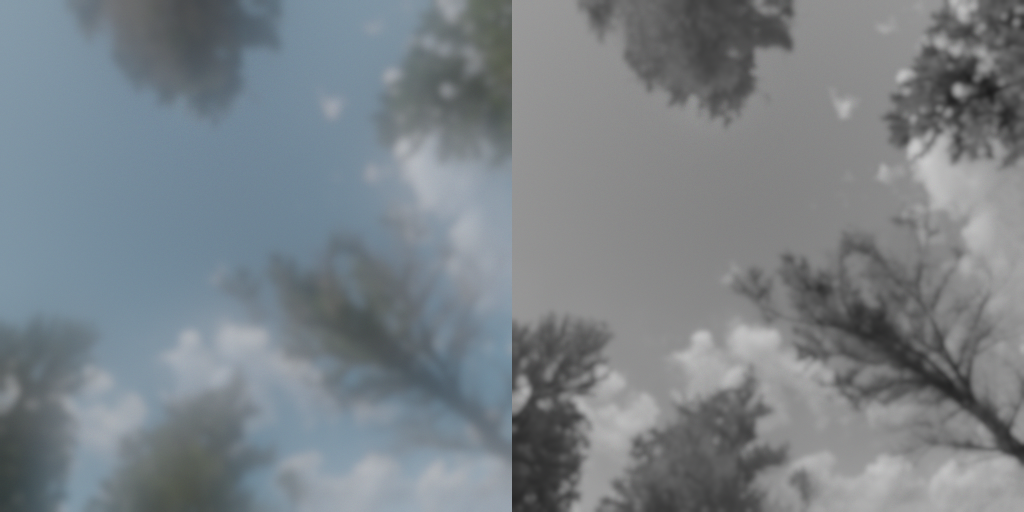
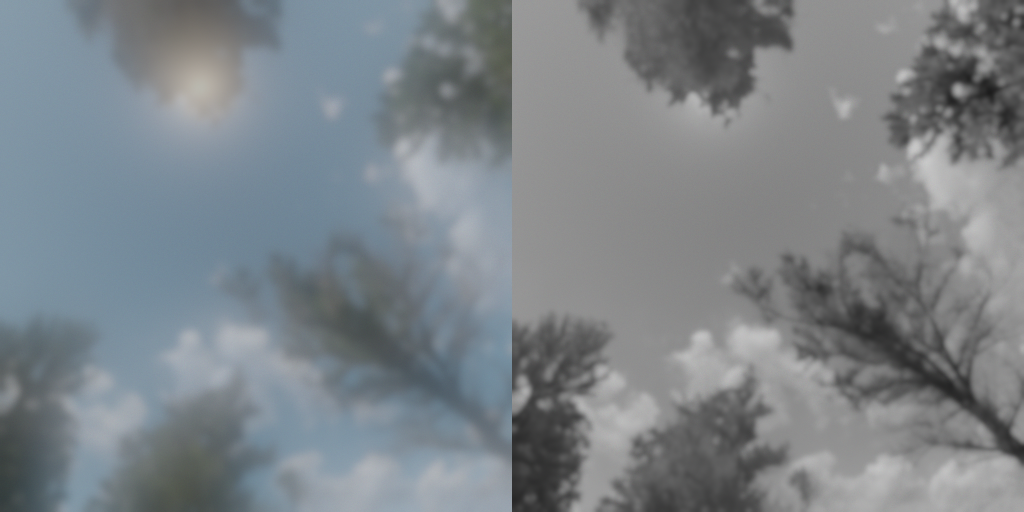
Lab: climb overexpose round 1
Claude-Session: https://claude.ai/code/session_01RqENhngNCzDFmJWDZueXGV

Changed region(s): [[0.125, 0.0, 0.25, 0.3125], [0.6562, 0.1875, 0.75, 0.25]]

diff --git a/src/app/lab/overexpose/overexposeEngine.js b/src/app/lab/overexpose/overexposeEngine.js
@@ -61,15 +61,26 @@ export const FILM = {
   // negative by skyHold of every stop of overexposure (about -0.9 EV at +1.67),
   // keyed on the bake's cloud mask (scene.webp's alpha, relight.py), so a
   // cloud's blue-lit underside is not mistaken for sky and a crown's edge is
-  // held with the sky behind it, never left as a pale outline. The dark
-  // needles take skyHoldNeedle of it. The scan's extra blue depth eases off on the held sky
+  // held with the sky behind it, never left as a pale outline. The same key
+  // spares the hidden sun's glow (sunburst.py), falling off over ~9 deg, so it
+  // is the glow that carries the overexposure: it climbs the shoulder, spreads
+  // and swallows the crown's edge while the sky around it stays held.
+  // The scan's extra blue depth eases off on the held sky
   // (to skyHoldDepth by skyHoldFull), or it would pour the held light straight
   // back into the blue channel and pin it at the cap again. So the sky's
   // brightest channel stays near 200-215, still deepening towards the zenith,
   // while the clouds keep climbing the shoulder above it. 0 EV is untouched.
   skyHold: 0.55,
   skyHoldDepth: 1.1,
-  skyHoldNeedle: 0.35, // share of the hold the dark needles take, so the shadows still open up
+  // The dark needles take skyHoldNeedle of it, so the shadows still open up. The
+  // hand-over from needle to sky is spread over skyHoldY (log2 scene luminance,
+  // ~5.7 stops): squeezed into the 1.7 stops between 0.03 and 0.1 it held a
+  // needle's lit side back almost as far as its shadow sat above it, so at +3
+  // the canopy's midtones collapsed onto one level and posterized into flat
+  // grey-green and lilac blobs. Spread out, each stop of needle still prints
+  // at least 0.7 stop apart at +3.
+  skyHoldNeedle: 0.3,
+  skyHoldY: [-9.0, -3.3],
   skyHoldFull: 1.67,
 
   hiWarm: 0.025,
@@ -104,7 +115,7 @@ uniform vec3 uGamma; uniform vec3 uShoulder; uniform float uToe; uniform float u
 uniform vec3 uGref;         // negative density of the printer-light grey
 uniform vec3 uPk; uniform vec3 uPx0; uniform vec3 uDmin; uniform vec3 uDmax;
 uniform float uSat; uniform float uBlueSat; uniform vec3 uBlueHue; uniform float uHiDesat; uniform float uHiWarm;
-uniform vec2 uSkyQ; uniform float uHold; uniform float uHoldNeedle; uniform float uHoldDepth; uniform float uSkyHiKeep; uniform float uSkyHiHue; uniform float uSkyCap;
+uniform vec2 uSkyQ; uniform float uHold; uniform float uHoldNeedle; uniform vec2 uHoldY; uniform float uHoldDepth; uniform float uSkyHiKeep; uniform float uSkyHiHue; uniform float uSkyCap;
 uniform float uBloom; uniform float uHal; uniform vec3 uHalColor;
 uniform float uGrain; uniform float uSeed; uniform float uGrainPx;
 out vec4 o;
@@ -143,7 +154,7 @@ void main(){
   // The printer holds all but the cloud back (after the optics, so the hold does not
   // read as a dark gap for the halation to fill).
   float open = clamp((sc.a * 255.0 - 3.0) / 252.0, 0.0, 1.0); // 1 - the bake's cloud share
-  open *= mix(uHoldNeedle, 1.0, smoothstep(0.03, 0.1, Ys));
+  open *= mix(uHoldNeedle, 1.0, smoothstep(uHoldY.x, uHoldY.y, log2(max(Ys, 1e-6))));
   L *= exp2(-uHold * open);
 
   // Negative: each layer on its own H&D curve.
@@ -457,6 +468,7 @@ export async function createOverexpose(host, { embedded = false } = {}) {
     gl.uniform1f(u.uSkyCap, F.skyCap);
     gl.uniform1f(u.uHold, F.skyHold * Math.max(e, 0));
     gl.uniform1f(u.uHoldNeedle, F.skyHoldNeedle);
+    gl.uniform2fv(u.uHoldY, F.skyHoldY);
     gl.uniform1f(u.uHoldDepth, F.blueDepth + (F.skyHoldDepth - F.blueDepth) * clamp(e / F.skyHoldFull, 0, 1));
     gl.uniform1f(u.uBloom, F.bloom);
     gl.uniform1f(u.uHal, F.halation);

diff --git a/tools/depth/bakes/overexpose/sunburst.py b/tools/depth/bakes/overexpose/sunburst.py
@@ -1,0 +1,155 @@
+# Light the hidden sun.
+#
+# After deepen.py and relight.py the sun behind the top-centre crown had gone
+# out. resun.py's warm transmitted rim was there, but deepen.py's dematte() unmixed
+# it as old pale sky and took it back off the needles, and the circumsolar glow it
+# left (GLOW_A 1.6 over 4 deg) is barely half a stop on the cobalt. So the crown
+# printed as one more dark tree on an evenly lit sky: no light event, and no warm
+# accent anywhere in the frame.
+#
+# Here, on the shipped bake, the sun is lit again about 2-3 stops brighter than
+# resun.py left it, on three things only, with the photograph's own texture riding
+# along as a ratio:
+#   1. the tight circumsolar radiance, on each pixel's open-sky share: a near-white
+#      cyan aureole (the sky's own colour halfway to white) that falls off over a
+#      few degrees, AUR_A x the local sky at the sun and AUR_B x over ~AUR_W2 deg.
+#      Through the crown's own gaps within a couple of degrees of the sun it reaches
+#      the sun's disc: pin-points at the top of the encoding;
+#   2. a thin (RIM_PX) warm-white transmitted rim on the needles at the crown's
+#      open-sky edge, in the sun's forward lobe: backlit needles out-shine the sky
+#      beyond them by several stops. Mixed edge pixels (single needles against the
+#      sky) take it in proportion to their needle share, so the silhouette's
+#      filaments glow and its dense interior stays dark;
+#   3. the optics: diffusion and halation are rebaked from the change itself (both
+#      are linear in radiance), so the Pro-Mist bloom around the crown is cyan-white
+#      from the aureole and the halation ring on the dark needles inside the rim is
+#      warm.
+# The glow is also keyed into scene.webp's alpha (as cloud is, relight.py), with a
+# smooth falloff around the sun, so the printer's sky hold leaves it alone: as the
+# exposure rises the held sky stays cobalt while the glow climbs the shoulder,
+# spreads and swallows the crown's edge.
+#
+# Pipeline: runs last, on the relit bake (pass copies, never the outputs):
+#             python3 sunburst.py <scene.webp> <optics.png> [preview_dir]
+# With preview_dir it writes the new radiance there (npy) and leaves public/ alone.
+import sys, os; sys.path.insert(0, os.path.dirname(os.path.abspath(__file__)))
+import numpy as np
+from PIL import Image
+from scipy import ndimage as ndi
+import bake_wormseye as bw
+import deepen
+
+LUMA = np.array([0.2126, 0.7152, 0.0722])
+LN = 0.035                       # the needles' own luminance (resun.py)
+AUR_A, AUR_W1 = 7.0, 1.6         # tight aureole: x local sky at the sun, e-fold in deg
+AUR_B, AUR_W2 = 2.2, 7.0         # its broader skirt
+AUR_WHITE = 0.55                 # share of the way from the sky's colour to white
+DISC_DEG, DISC_L = 0.45, 5.0      # gaps this close to the sun see its disc (luminance, near the encoding's top)
+RIM_K, RIM_W, RIM_PX = 40.0, 3.5, 1.5   # rim: x local sky at the lobe's peak; lobe e-fold in deg; depth in px
+RIM_COL = np.array([1.3, 1.0, 0.62])     # sunlight through needles: warm white
+SRC_D2, SRC_W = 0.5, 4.5        # diffusion only: the disc's own light, as luminance 2 deg out, and its falloff (deg)
+SRC_COL = np.array([1.3, 1.0, 0.68])     # warm white: sunlight that came through the needles
+KEY_A, KEY_DEG = 0.85, 9.0       # alpha key: share of the sky hold the glow is spared, and its falloff (deg)
+
+def smooth(a, lo, hi):
+    t = np.clip((a - lo) / (hi - lo), 0, 1)
+    return t * t * (3 - 2 * t)
+
+def mblur(a, m, s):
+    return ndi.gaussian_filter(a * m, s) / np.maximum(ndi.gaussian_filter(m, s), 1e-6)
+
+def sunburst(pix):
+    _, g = deepen.geometry()
+    Y = pix @ LUMA
+    q = np.log2(np.maximum(pix[..., 2], 1e-6) / np.maximum(pix[..., 0], 1e-6))
+    near_sun = g < 40
+    # the sky behind each pixel: confident open blue sky, blurred into the crown
+    conf = ((q > 1.0) & (Y > 0.08)).astype(np.float64)
+    S = np.stack([mblur(pix[..., c], conf, 10.0) for c in range(3)], -1)
+    far = np.stack([mblur(pix[..., c], conf, 60.0) for c in range(3)], -1)   # deep in a crown: the sky further out
+    S = np.where(ndi.gaussian_filter(conf, 10.0)[..., None] > 0.03, S, far)
+    SY = S @ LUMA
+    t = np.clip((Y - LN) / np.maximum(SY - LN, 1e-3), 0, 1)          # sky share
+    # open sky (the big region) vs the crown's interior gaps
+    lab, n = ndi.label(t > 0.5)
+    sizes = ndi.sum(np.ones_like(t), lab, np.arange(1, n + 1))
+    open_sky = np.isin(lab, 1 + np.flatnonzero(sizes > 20000))
+    # 1. aureole, on the sky share (open sky and gaps alike), cyan-white
+    scol = S / np.maximum(SY, 1e-6)[..., None]
+    acol = scol + AUR_WHITE * (1 - scol)
+    acol /= (acol @ LUMA)[..., None]
+    aur = SY * (AUR_A * np.exp(-g / AUR_W1) + AUR_B * np.exp(-g / AUR_W2))
+    disc = DISC_L * smooth(-g, -DISC_DEG * 1.6, -DISC_DEG * 0.5)
+    ts = smooth(t, 0.2, 0.75)                                          # needles stay dark: only real gaps see it
+    add_a = (ts * (aur + disc))[..., None] * acol
+    # 2. rim on needles at the open sky's edge, in the forward lobe
+    rr = int(np.ceil(RIM_PX)); yy, xx = np.mgrid[-rr:rr + 1, -rr:rr + 1]
+    fp = (xx * xx + yy * yy) <= RIM_PX ** 2 + 0.5
+    edge = ndi.maximum_filter(open_sky.astype(np.float64), footprint=fp)
+    edge = ndi.gaussian_filter(edge, 0.5)
+    needle = 1 - t
+    crown = smooth(ndi.gaussian_filter(needle, 5.0), 0.15, 0.4)       # part of a crown, not a speck in the sky
+    needle = needle * crown
+    # deep inside a solid mass light does not get through: only where sky is near
+    thin = np.clip(0.35 + 1.4 * ndi.gaussian_filter(t, 3.0), 0, 1)
+    lobe = np.exp(-g / RIM_W)
+    # a rim dimmer than the sky beyond it prints as a tan outline, not light: where
+    # the lobe can no longer lift it a stop or more over that sky, it fades out
+    lobe = lobe * smooth(RIM_K * lobe, 2.0, 5.0)
+    rim = (RIM_K * edge * needle * thin * lobe * SY * near_sun)[..., None] * (RIM_COL / (RIM_COL @ LUMA))
+    out = pix + add_a + rim
+    key = KEY_A * np.exp(-g / KEY_DEG) * near_sun
+    for gg in (0.5, 1, 2, 4, 8, 16):
+        ring = (np.abs(g - gg) < 0.3) & open_sky
+        if ring.any():
+            print('open sky %4.1f deg: lum %.3f -> %.3f (x%.2f)' % (gg, Y[ring].mean(), (out @ LUMA)[ring].mean(),
+                  (out @ LUMA)[ring].mean() / Y[ring].mean()))
+    rl = rim @ LUMA; sel = rl > 0.05
+    print('rim px %d, rim lum p50/p99 %.2f / %.2f, rim/sky p50 %.1f' % (int(sel.sum()), np.percentile(rl[sel], 50),
+          np.percentile(rl[sel], 99), np.percentile(rl[sel] / SY[sel], 50)))
+    print('max lum %.2f, px at the encoding top %d' % ((out @ LUMA).max(), int((out > 2 ** bw.HI).any(-1).sum())))
+    return out, key
+
+def sun_optics():
+    """The disc itself, for the diffusion only. Its pin-points through the crown
+    are thousands of times the sky, and the encoding holds them at its top, but
+    the filter sees all of that light. Most of it scatters wide (the Pro-Mist's
+    broad lobe; the narrow lobe and the halation would draw the hidden disc as a
+    pasted-on ball), so it is added to the diffusion half of the optics as a
+    smooth warm-white veil around the hidden sun, SRC_D2 two degrees out and
+    falling off over SRC_W deg. On the print it lifts the dark needles at the
+    crown's edge by under a stop at 0 EV; as the exposure rises it climbs out
+    of the toe with them and swallows the edge."""
+    _, g = deepen.geometry()
+    n = 512
+    gs = g.reshape(n, g.shape[0] // n, n, g.shape[1] // n).mean((1, 3))
+    veil = SRC_D2 * np.exp(-(gs - 2.0) / SRC_W)[..., None] * (SRC_COL / (SRC_COL @ LUMA))
+    veil = bw.gblur(np.minimum(veil, SRC_D2 * np.exp(1.0 / SRC_W)), 4.0)   # rounded off at the centre
+    print('disc veil: diffusion at 0/2/4/8/16 deg', [round(float((veil @ LUMA)[np.abs(gs - d) < 0.4].mean()), 3) for d in (0.3, 2, 4, 8, 16)])
+    return np.concatenate([veil, np.zeros_like(veil)], 1)
+
+if __name__ == '__main__':
+    im = Image.open(sys.argv[1]); s = np.asarray(im.convert('RGBA'))
+    s8, a8 = s[..., :3], s[..., 3]
+    g8 = np.asarray(Image.open(sys.argv[2]).convert('RGB'))
+    pix = bw.dec_log(s8)
+    out, key = sunburst(pix)
+    m = 1 - (a8.astype(np.float64) - 3) / 252                    # relight.py's cloud share
+    m = np.maximum(m, key)
+    alpha = (3 + 4 * np.round(63 * (1 - np.clip(m, 0, 1)))).astype(np.uint8)
+    rng = np.random.default_rng(13)
+    changed = np.abs(np.log2(out / pix)).max(-1) > 1e-3
+    s8n = np.where(changed[..., None], bw.enc_log(out, rng), s8).astype(np.uint8)
+    d_opt = bw.optics(out - pix) + sun_optics()
+    glow = np.maximum(bw.dec_log(g8) + d_opt, 2.0 ** bw.LO)
+    g8n = np.where((np.abs(d_opt) > 1e-5).any(-1, keepdims=True), bw.enc_log(glow, rng), g8).astype(np.uint8)
+    if len(sys.argv) > 3:
+        d = sys.argv[3]
+        Image.fromarray(np.dstack([s8n, alpha]), 'RGBA').save(os.path.join(d, 'scene.png'))
+        Image.fromarray(g8n, 'RGB').save(os.path.join(d, 'optics.png'))
+        print('preview written to', d)
+        sys.exit(0)
+    Image.fromarray(np.dstack([s8n, alpha]), 'RGBA').save(
+        os.path.join(bw.OUT, 'scene.webp'), 'WEBP', quality=94, alpha_quality=100, method=6, exact=True)
+    bw.save_optics(g8n)
+    print('changed px %.3f; wrote' % float(changed.mean()), bw.OUT)

diff --git a/tools/depth/bakes/overexpose/relight.py b/tools/depth/bakes/overexpose/relight.py
@@ -27,8 +27,9 @@
 # so the clouds climb the paper's shoulder above the sky instead of level with it.
 #
 # Pipeline (re-grades the shipped bake in place, like deepen.py --shipped; pass
-# copies of the un-relit files, never the outputs). It runs last: deepen.py and
-# bake_wormseye.py write RGB only and would drop the key.
+# copies of the un-relit files, never the outputs). It runs after deepen.py and
+# bake_wormseye.py, which write RGB only and would drop the key; only
+# sunburst.py follows it, and keeps the key (adding the sun's glow to it).
 #             python3 relight.py <scene.webp> <optics.png> [preview.png]
 import sys, os; sys.path.insert(0, os.path.dirname(os.path.abspath(__file__)))
 import numpy as np

diff --git a/tools/depth/bakes/overexpose/bake_wormseye.py b/tools/depth/bakes/overexpose/bake_wormseye.py
@@ -2,6 +2,7 @@
 #   python3 desun.py 6 26 && python3 resun.py 0.3906 0.1706 \
 #     && python3 deepen.py <OE_WORK>/crop1536r.npy && python3 bake_wormseye.py <OE_WORK>/crop1536d.npy
 #     && python3 relight.py <copy of scene.webp> <copy of optics.png>   (cumulus relit, cloud key -> alpha)
+#     && python3 sunburst.py <copy of scene.webp> <copy of optics.png>  (the hidden sun lit: aureole, rim, optics, glow key)
 # (OE_WORK holds the 8k caches). bake.py is the earlier rectilinear bake, kept for reference.
 import numpy as np, io, os, sys
 from PIL import Image
